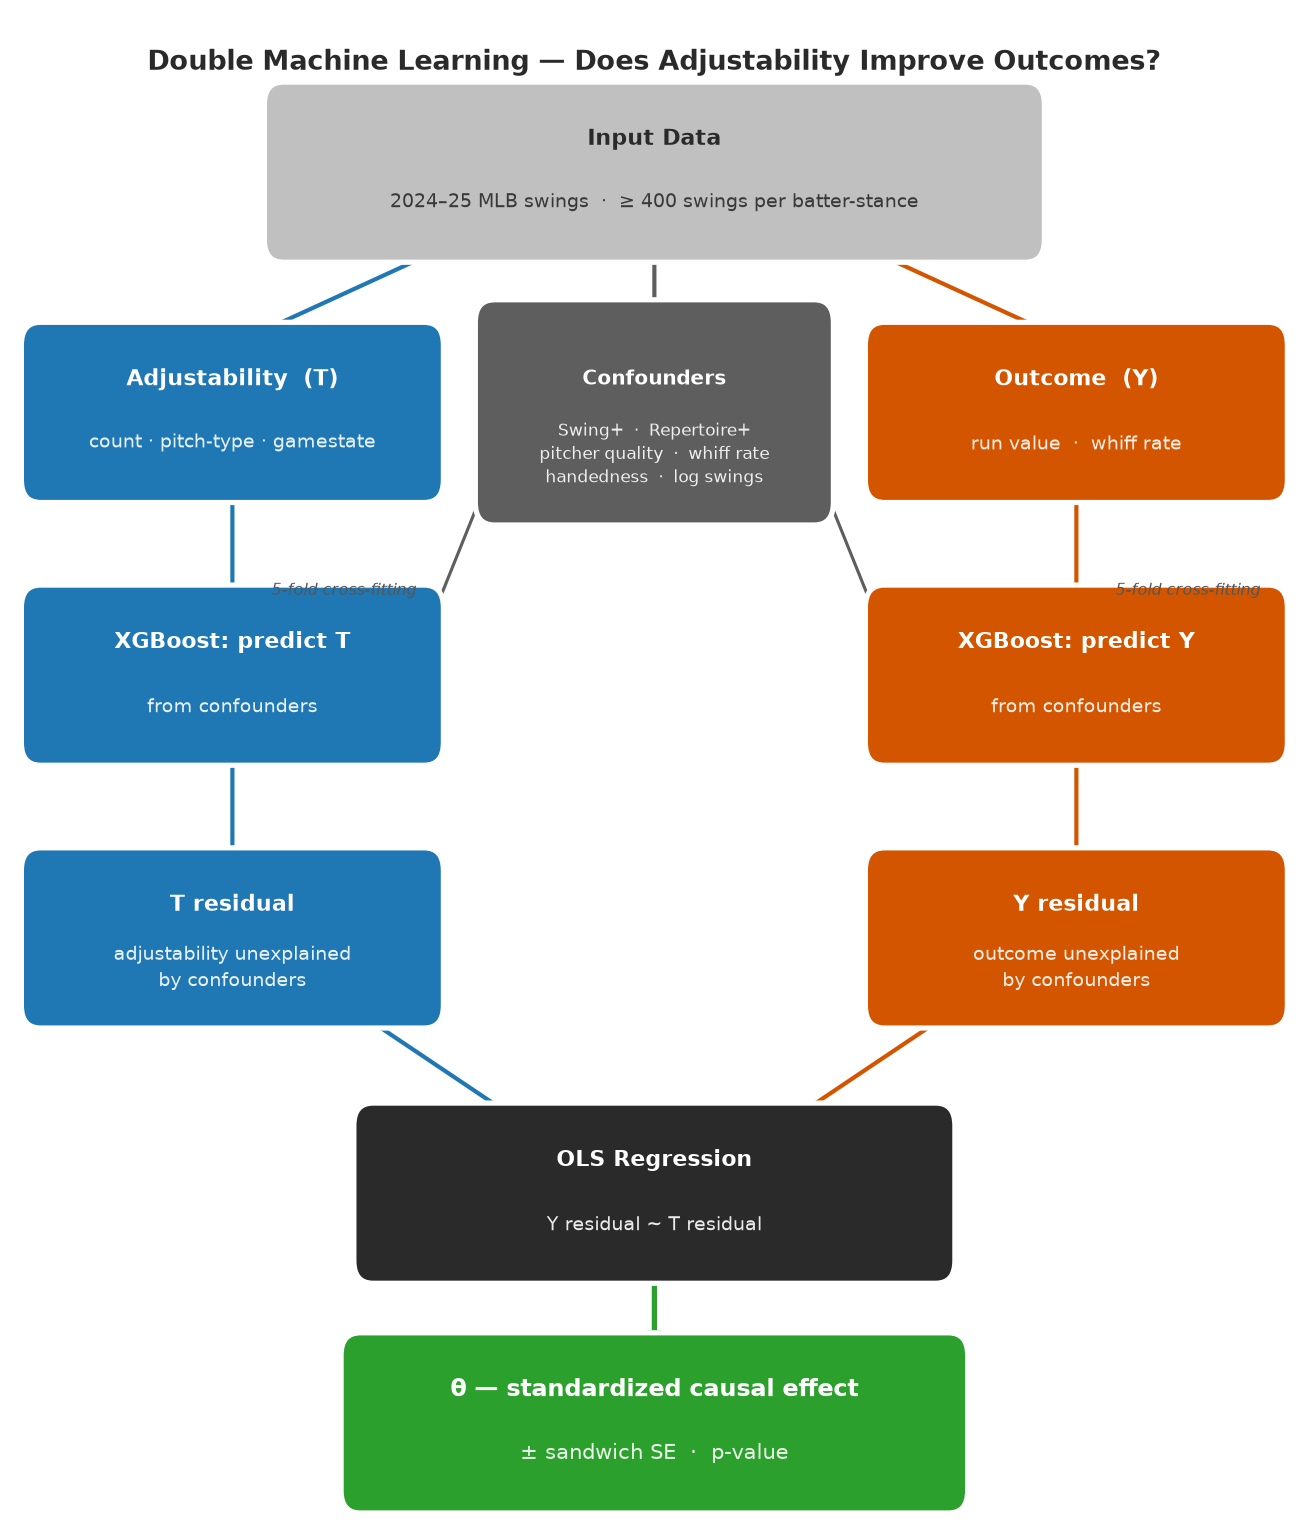
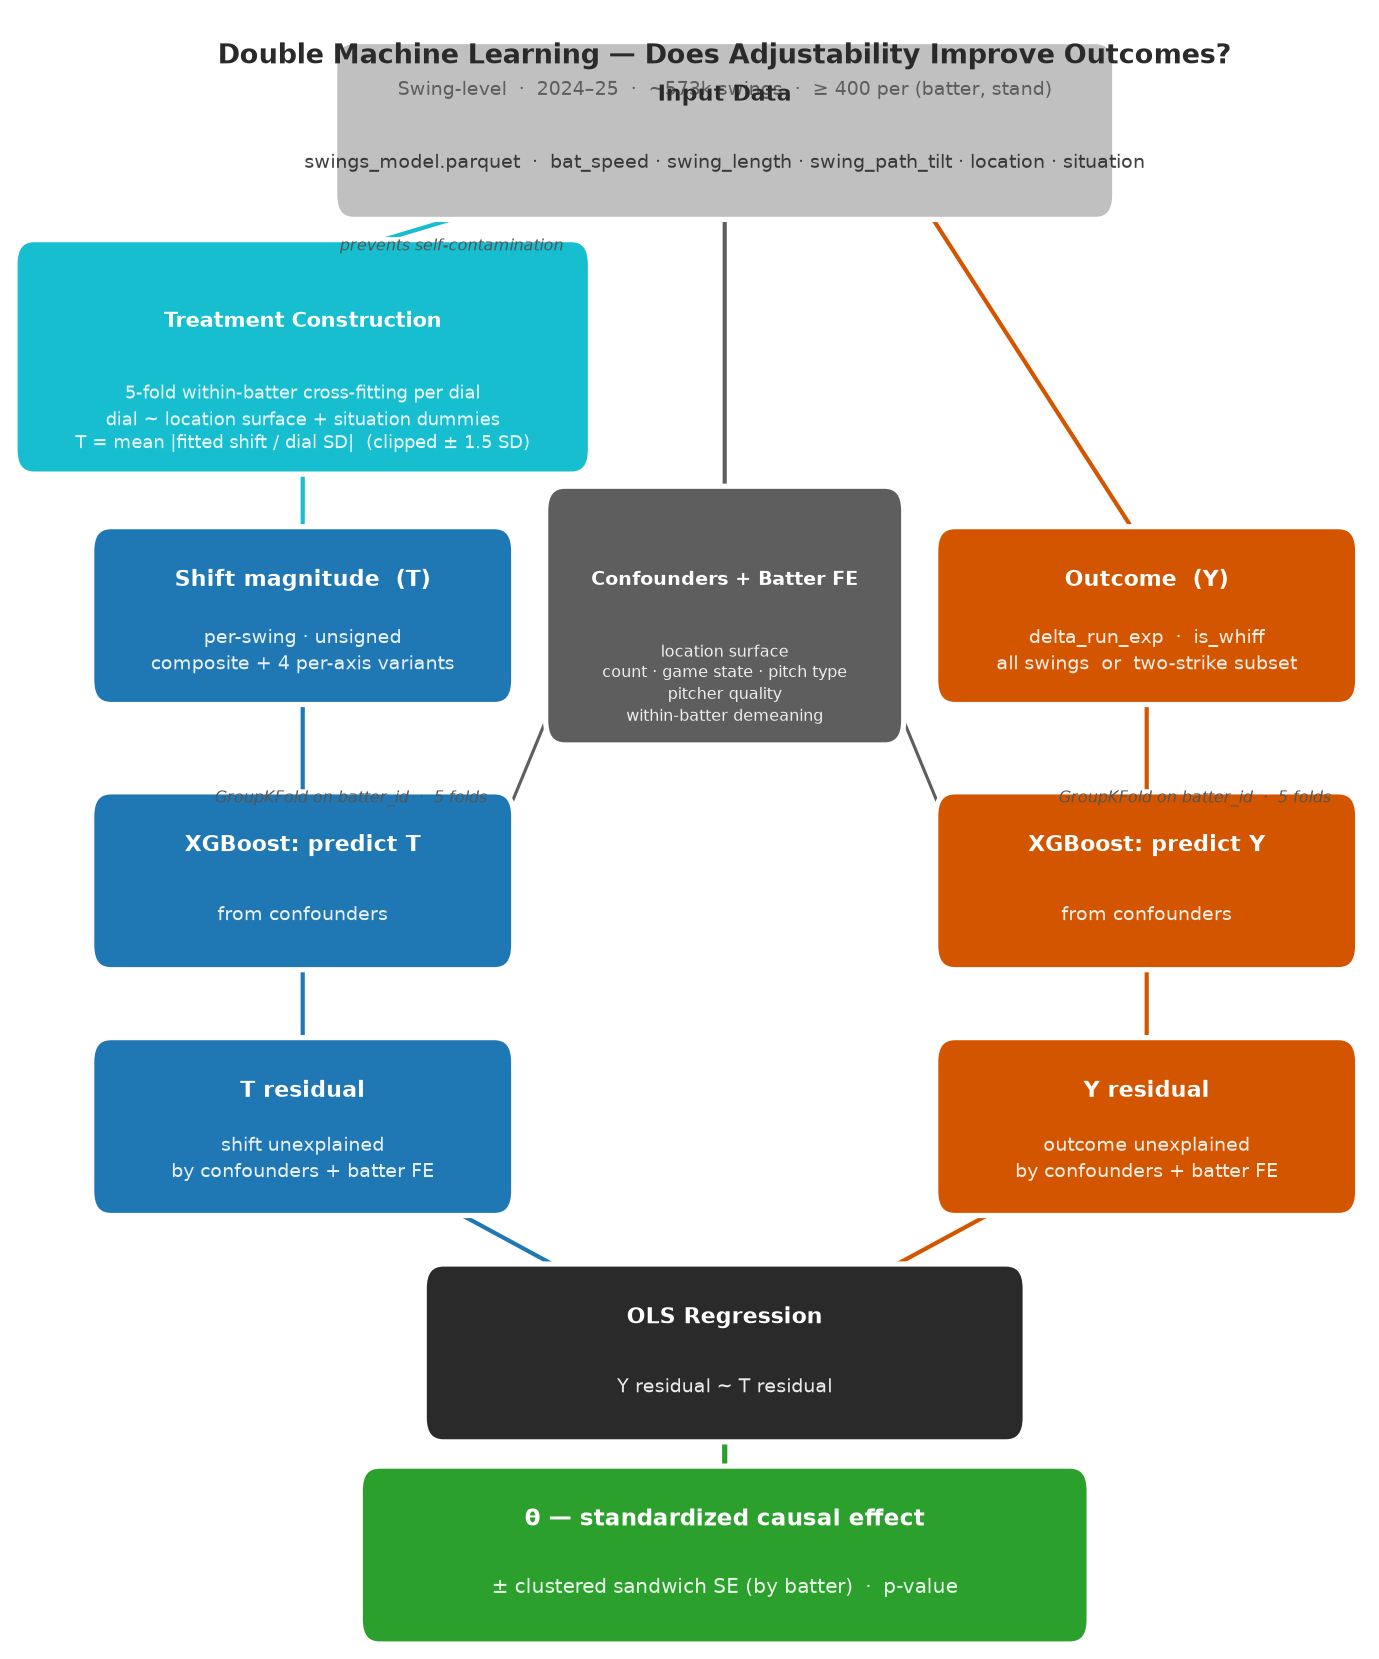
feat: update DML flowchart to reflect swing-level treatment construction and clustered SE

diff --git a/src/dml_flowchart.py b/src/dml_flowchart.py
@@ -1,5 +1,5 @@
 #!/usr/bin/env python3
-"""Generate DML process flowchart for adjustability_value methodology."""
+"""Generate DML process flowchart for adjustability_value methodology (swing-level DML)."""
 import matplotlib
 matplotlib.use("Agg")
 import matplotlib.pyplot as plt
@@ -15,9 +15,10 @@ C_GRAY   = "#5E5E5E"
 C_GREEN  = "#2CA02C"
 C_LIGHT  = "#C0C0C0"
 C_DARK   = "#2A2A2A"
+C_TEAL   = "#17BECF"
 WHITE    = "#FFFFFF"
 
-fig, ax = plt.subplots(figsize=(11, 13), facecolor=WHITE)
+fig, ax = plt.subplots(figsize=(11, 14), facecolor=WHITE)
 ax.set_facecolor(WHITE)
 ax.set_xlim(0, 1)
 ax.set_ylim(0, 1)
@@ -63,87 +64,120 @@ def badge(cx, cy, w, h, text):
 
 # ── Layout constants ─────────────────────────────────────────────────────────
 XL, XC, XR = 0.17, 0.50, 0.83
-H   = 0.090   # standard box height
-HB  = 0.120   # taller for confounders (3 sub-lines)
-WS  = 0.30    # side column width
-WC  = 0.25    # confounders width
-WI  = 0.58    # input bar
-WO  = 0.46    # output bar
+H    = 0.080   # standard box height
+HB   = 0.130   # confounders (4 sub-lines)
+HTR  = 0.115   # treatment construction (3 sub-lines)
+WS   = 0.30    # side column width
+WC   = 0.25    # confounders width
+WTR  = 0.42    # treatment construction width (wider to fit 3-line sub)
+WI   = 0.58    # input bar width
+WO   = 0.54    # output bar width
 
-YIN  = 0.895
-YCOL = 0.735
-YXGB = 0.560
-YRES = 0.385
-YOLS = 0.215
-YOUT = 0.062
+YIN  = 0.928
+YTRT = 0.788   # treatment construction (left-lane pre-step)
+YCOL = 0.628   # T | Confounders | Y
+YXGB = 0.464
+YRES = 0.312
+YOLS = 0.172
+YOUT = 0.047
 
 # ── Title ────────────────────────────────────────────────────────────────────
-ax.text(XC, 0.968,
+ax.text(XC, 0.974,
         "Double Machine Learning — Does Adjustability Improve Outcomes?",
         ha="center", va="center", fontsize=13, fontweight="bold",
         color=C_DARK, transform=ax.transAxes)
 
-# ── Boxes ────────────────────────────────────────────────────────────────────
+ax.text(XC, 0.953,
+        "Swing-level  ·  2024–25  ·  ~573k swings  ·  ≥ 400 per (batter, stand)",
+        ha="center", va="center", fontsize=9, color=C_GRAY,
+        transform=ax.transAxes)
+
+# ── Input ────────────────────────────────────────────────────────────────────
 draw_box(XC, YIN, WI, H,
          "Input Data",
-         "2024–25 MLB swings  ·  ≥ 400 swings per batter-stance",
+         "swings_model.parquet  ·  bat_speed · swing_length · swing_path_tilt · location · situation",
          fc=C_LIGHT, tc=C_DARK)
 
+# ── Treatment Construction (new pre-step, left lane) ─────────────────────────
+draw_box(XL, YTRT, WTR, HTR,
+         "Treatment Construction",
+         "5-fold within-batter cross-fitting per dial\n"
+         "dial ~ location surface + situation dummies\n"
+         "T = mean |fitted shift / dial SD|  (clipped ± 1.5 SD)",
+         fc=C_TEAL, tc=WHITE, fs=10.0, sub_dy=0.038)
+badge(XL, YTRT, WTR, HTR, "prevents self-contamination")
+
+# ── T | Confounders | Y ──────────────────────────────────────────────────────
 draw_box(XL, YCOL, WS, H,
-         "Adjustability  (T)",
-         "count · pitch-type · gamestate",
-         fc=C_BLUE, tc=WHITE)
+         "Shift magnitude  (T)",
+         "per-swing · unsigned\n"
+         "composite + 4 per-axis variants",
+         fc=C_BLUE, tc=WHITE, sub_dy=0.022)
 
 draw_box(XC, YCOL, WC, HB,
-         "Confounders",
-         "Swing+  ·  Repertoire+\npitcher quality  ·  whiff rate\nhandedness  ·  log swings",
-         fc=C_GRAY, tc=WHITE, fs=9.5, sub_dy=0.028)
+         "Confounders + Batter FE",
+         "location surface\n"
+         "count · game state · pitch type\n"
+         "pitcher quality\n"
+         "within-batter demeaning",
+         fc=C_GRAY, tc=WHITE, fs=9.0, sub_dy=0.042)
 
 draw_box(XR, YCOL, WS, H,
          "Outcome  (Y)",
-         "run value  ·  whiff rate",
-         fc=C_ORANGE, tc=WHITE)
+         "delta_run_exp  ·  is_whiff\n"
+         "all swings  or  two-strike subset",
+         fc=C_ORANGE, tc=WHITE, sub_dy=0.022)
 
+# ── XGBoost nuisance models ──────────────────────────────────────────────────
 draw_box(XL, YXGB, WS, H,
          "XGBoost: predict T",
          "from confounders",
          fc=C_BLUE, tc=WHITE)
-badge(XL, YXGB, WS, H, "5-fold cross-fitting")
+badge(XL, YXGB, WS, H, "GroupKFold on batter_id  ·  5 folds")
 
 draw_box(XR, YXGB, WS, H,
          "XGBoost: predict Y",
          "from confounders",
          fc=C_ORANGE, tc=WHITE)
-badge(XR, YXGB, WS, H, "5-fold cross-fitting")
+badge(XR, YXGB, WS, H, "GroupKFold on batter_id  ·  5 folds")
 
+# ── Residuals ────────────────────────────────────────────────────────────────
 draw_box(XL, YRES, WS, H,
          "T residual",
-         "adjustability unexplained\nby confounders",
+         "shift unexplained\nby confounders + batter FE",
          fc=C_BLUE, tc=WHITE)
 
 draw_box(XR, YRES, WS, H,
          "Y residual",
-         "outcome unexplained\nby confounders",
+         "outcome unexplained\nby confounders + batter FE",
          fc=C_ORANGE, tc=WHITE)
 
+# ── OLS ─────────────────────────────────────────────────────────────────────
 draw_box(XC, YOLS, 0.44, H,
          "OLS Regression",
          "Y residual ~ T residual",
          fc=C_DARK, tc=WHITE)
 
+# ── Output ───────────────────────────────────────────────────────────────────
 draw_box(XC, YOUT, WO, H,
          "θ — standardized causal effect",
-         "± sandwich SE  ·  p-value",
-         fc=C_GREEN, tc=WHITE, fs=11.5)
+         "± clustered sandwich SE (by batter)  ·  p-value",
+         fc=C_GREEN, tc=WHITE, fs=11.0)
 
 # ── Arrows ───────────────────────────────────────────────────────────────────
-# Input → Treatment / Confounders / Outcome
-arrow(XC - WI / 2 * 0.52, YIN - H / 2, XL, YCOL + H / 2,           C_BLUE)
-arrow(XC,                  YIN - H / 2, XC, YCOL + HB / 2,           C_GRAY)
-arrow(XC + WI / 2 * 0.52, YIN - H / 2, XR, YCOL + H / 2,            C_ORANGE)
+# Input → Treatment Construction (left lane)
+arrow(XC - WI / 2 * 0.52, YIN - H / 2, XL, YTRT + HTR / 2, C_TEAL)
+# Input → Confounders (center)
+arrow(XC,                  YIN - H / 2, XC, YCOL + HB / 2,  C_GRAY)
+# Input → Y (right)
+arrow(XC + WI / 2 * 0.52, YIN - H / 2, XR, YCOL + H / 2,   C_ORANGE)
 
-# Treatment / Outcome → XGBoost
+# Treatment Construction → T
+arrow(XL, YTRT - HTR / 2, XL, YCOL + H / 2, C_TEAL)
+
+# T → XGBoost T
 arrow(XL, YCOL - H / 2, XL, YXGB + H / 2, C_BLUE)
+# Y → XGBoost Y
 arrow(XR, YCOL - H / 2, XR, YXGB + H / 2, C_ORANGE)
 
 # Confounders → both XGBoost models (diagonal)
